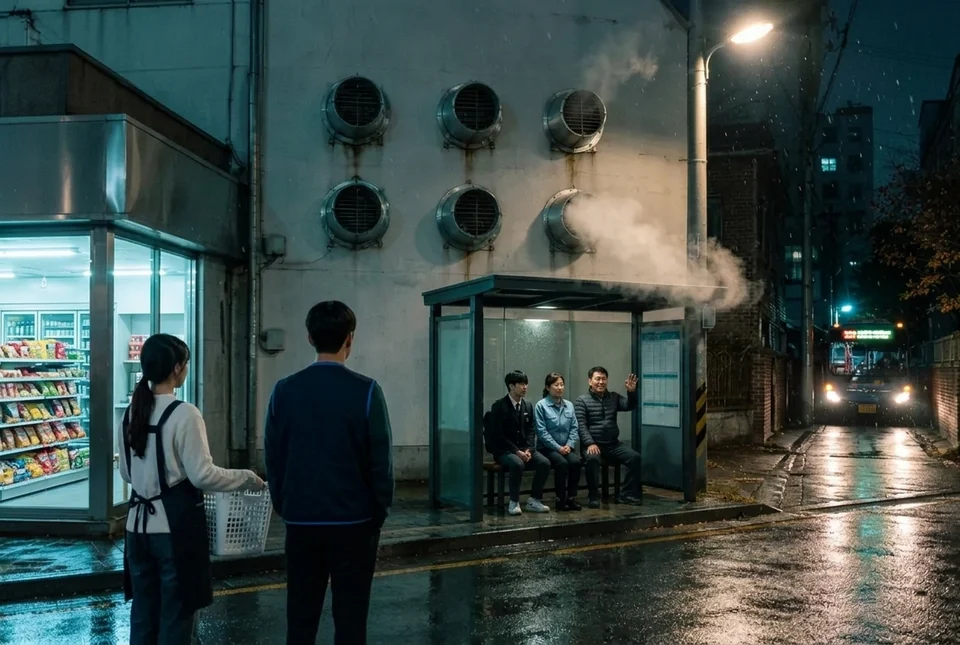
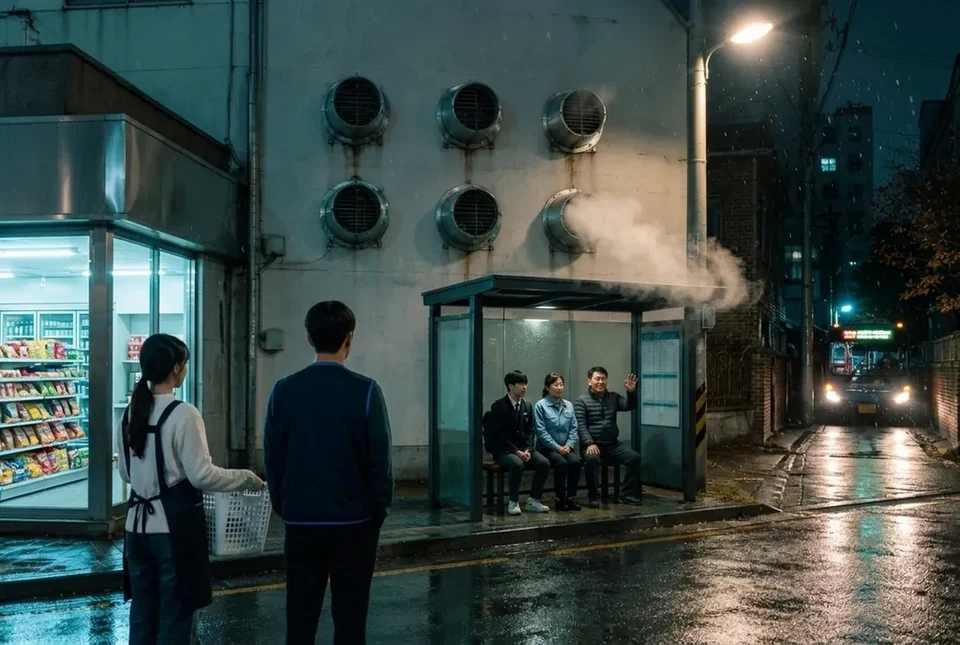
laundry 휴대폰 기록 반영: 가로 휴대폰 판정, 첫 위치 6번, 동전 봉투 세 번째 오답부터 기다림, 그림·글 맞춤
- small()을 엔진과 같게(가로 휴대폰 포함), 편 CSS 640 블록도 가로 포함
- 해달빨래방 focusX(처음 6번·패널, 배기구 뒤엔 단말기), 배기구 뒤 6번 문 유리 꺼진 모습 얹기
- 동전 봉투 세 번째 오답부터 15·25·40초 기다림
- 편의점 도현은 창고 문간, 봉투 자리 이름은 포스 아래 돈통
- 운전 기록 주마다 줄, 영수증 날짜·시각 두 줄, CCTV 지나가는 사람 밝게·휴대폰 화면 안으로, OSD·시각 칸 13px
- 배기구 안내문을 실제 동작(바꿔 붙이기)에 맞춤, 접기 줄 44px
- 날짜 빗금 표기, 엔딩 도현은 편의점 문 앞, 엔딩 그림 윗줄 오른쪽 김 지움(PIL)

Claude-Session: https://claude.ai/code/session_01EmFjZY1gpVcrfc1exiuVhy

diff --git a/mystery-site/web/v2/episodes/laundry.js b/mystery-site/web/v2/episodes/laundry.js
@@ -4,7 +4,25 @@
 // v136: 도현에게 돌려줄 동전 봉투(coinroll) 추가 — 기록에서 도현이 넣은 밤만 센다 (관리자 카드 7줄은 엄마 것, 답 29개)
 // v125: 간판은 가게 안에서 보면 좌우가 뒤집힌다(엄마는 늘 밖에서 봤다) · 근무표 대타 메모 함정 · 뒷골목 CCTV(새 장치) · 엄마의 사연과 월요일 밤 빈칸
 const P = 'assets/v2/laundry/';
-const small = () => typeof matchMedia === 'function' && matchMedia('(max-width:640px)').matches;
+// 휴대폰 판정은 엔진과 같게: 세로 폭 640 이하 또는 가로로 돌린 휴대폰(높이 500 이하)
+const small = () => typeof matchMedia === 'function' && matchMedia('(max-width:640px), (orientation:landscape) and (max-height:500px)').matches;
+const stateNow = () => { try { return window.MihaejeV2?.state || JSON.parse(localStorage.getItem('mihaeje-v2-laundry') || '{}') || {}; } catch { return {}; } };
+
+// 마구 눌러 보기 막기 (404호와 같은 방식): 두 번까지는 그냥, 세 번째 오답부터 기다리는 시간이 늘어난다
+const WAIT = [0, 0, 0, 15, 25, 40];
+const miss = (d) => { d.miss = (d.miss || 0) + 1; const sec = WAIT[Math.min(d.miss, WAIT.length - 1)]; d.until = sec ? Date.now() + sec * 1000 : 0; };
+const waiting = (d) => Math.max(0, Math.ceil(((d.until || 0) - Date.now()) / 1000));
+function waitLine(ctx, text) {
+  if (!waiting(ctx.d)) return null;
+  const p = ctx.el('p', 'ld-wait', `${text} · ${waiting(ctx.d)}초`);
+  const t = setInterval(() => {
+    if (!p.isConnected) { clearInterval(t); return; }
+    const n = waiting(ctx.d);
+    if (n <= 0) { clearInterval(t); ctx.save(); return; }
+    p.textContent = `${text} · ${n}초`;
+  }, 400);
+  return p;
+}
 
 // 6번 패널: 버튼 일곱 + 시작 (사진 좌표 %)
 const BTN = [
@@ -31,9 +49,9 @@ function logRows() {
     if (m === 11 && d > 4) break;
     const pv = new Date(Date.UTC(2026, 8, 24 + i)); const pm = pv.getUTCMonth() + 1, pd = pv.getUTCDate(), pw = pv.getUTCDay();
     const day = `${m}/${d} ${WD[w]}`;
-    if (pm === 9) out.push([day, `23:5${(pd % 4) + 5} 관리자 카드`, '저온 10분 0.0kg']);
-    else if (!doNight(pm, pd, pw)) out.push([day, '—', '<span class="term-miss">실행 없음</span>']);
-    else out.push([day, `22:0${coinMin(pm, pd)} 500원 1개`, m === 11 && d === 4 ? '저온 10분 <b>운전 중</b>' : '저온 10분 0.0kg']);
+    if (pm === 9) out.push([day, `23:5${(pd % 4) + 5} 관리자 카드`, '저온 10분 0.0kg', w]);
+    else if (!doNight(pm, pd, pw)) out.push([day, '—', '<span class="term-miss">실행 없음</span>', w]);
+    else out.push([day, `22:0${coinMin(pm, pd)} 500원 1개`, m === 11 && d === 4 ? '저온 10분 <b>운전 중</b>' : '저온 10분 0.0kg', w]);
   }
   return out;
 }
@@ -93,8 +111,9 @@ function figSvg(list) {
       + `<circle cx="${x + 2}" cy="283" r="11" fill="#8d9b94"/><path d="M${x - 9} 281 Q${x + 2} 266 ${x + 13} 281 Q${x + 2} 275 ${x - 9} 281Z" fill="#0a0f0d"/></g>`;
   };
   const stand = (x) => `<g ${ink} opacity=".86"><circle cx="${x}" cy="236" r="12" fill="#8d9b94"/><path d="M${x - 16} 252 Q${x} 242 ${x + 16} 252 L${x + 17} 332 L${x - 17} 332Z"/><rect x="${x - 15}" y="328" width="12" height="76" rx="4"/><rect x="${x + 3}" y="328" width="12" height="76" rx="4"/></g>`;
+  // 지나가는 사람은 벤치 오른쪽 인도 (휴대폰에서 벤치 쪽을 1.45배로 키워도 화면 안에 들어오게)
   const parts = {
-    walker: `<g ${ink} opacity=".8"><path d="M520 222 Q560 186 600 222Z"/><rect x="558" y="222" width="3" height="30"/><circle cx="560" cy="252" r="12"/><path d="M544 268 Q560 258 576 268 L578 360 L542 360Z"/><rect x="545" y="356" width="13" height="80" rx="4" transform="rotate(6 551 356)"/><rect x="562" y="356" width="13" height="80" rx="4" transform="rotate(-8 568 356)"/></g>`,
+    walker: `<g ${ink} opacity=".9" transform="translate(-84 0)"><path d="M520 222 Q560 186 600 222Z" fill="#3c4a44" stroke="#8d9b94" stroke-width="3"/><rect x="558" y="222" width="3" height="30" fill="#8d9b94"/><circle cx="560" cy="252" r="12" fill="#8d9b94"/><path d="M544 268 Q560 258 576 268 L578 360 L542 360Z"/><rect x="545" y="356" width="13" height="80" rx="4" transform="rotate(6 551 356)"/><rect x="562" y="356" width="13" height="80" rx="4" transform="rotate(-8 568 356)"/></g>`,
     cat: `<g ${ink} opacity=".88"><ellipse cx="300" cy="331" rx="19" ry="9"/><circle cx="320" cy="322" r="8"/><path d="M314 316 L316 306 L321 314Z M321 314 L326 306 L327 317Z"/><path d="M282 332 Q268 330 270 316" fill="none" stroke="#070b0a" stroke-width="4" stroke-linecap="round"/></g><circle cx="318" cy="321" r="1.6" fill="#e8fff0"/><circle cx="324" cy="321" r="1.6" fill="#e8fff0"/>`,
     p1: sit(266, true), p2: sit(236, true), p3: sit(292), p4: sit(346, false, 1),
     s1: stand(395), s2: stand(432),
@@ -162,7 +181,7 @@ export default {
   tracesLabel: '6번이 데려간 곳',
 
   opening: {
-    eyebrow: '11월 4일 수요일 0시',
+    eyebrow: '2026/11/4 수요일 · 0시',
     paragraphs: [
       '해달빨래방은 엄마가 열두 해 한 가게다. 엄마가 손목 수술을 받으면서 지난달부터 내가 맡았다. 무인이라 밤엔 아무도 없다. 원래는.',
       '맡은 첫날 엄마가 한 말은 하나였다. 「6번 자정에 도는 거 건드리지 마라. 이유는 묻지 말고.」',
@@ -186,6 +205,10 @@ export default {
       id: 'hall',
       name: '해달빨래방',
       image: P + 'hall.webp',
+      // 처음엔 6번 건조기·쪽지·패널 쪽부터 (오프닝 마지막이 '빈 통 앞에 서기') · 배기구를 푼 뒤엔 벽 단말기 쪽
+      focusX: (S) => (S.solved?.includes('vents') && !S.solved.includes('cctv') ? 71 : 88),
+      // 배기구를 푼 뒤 6번은 멈췄다 → 문 유리 불을 끈 모습을 얹는다 (그림 속 6번 유리 자리 픽셀에 맞춤)
+      get overlays() { return (stateNow().solved || []).includes('vents') ? [{ x: 86.72, y: 9.45, w: 12.4, h: 29.8, cls: 'drum-off', html: `<img src="${P}props/drum6-off.webp" alt="">` }] : []; },
       arrive: (S) => {
         if (S.solved.includes('cctv')) return '단말기엔 어젯밤 벤치가 멈춰 있다 6번 패널 액정에 예약 화면이 켜져 있다';
         if (S.solved.includes('vents')) return '6번은 멈췄다 문 유리가 아직 따뜻하다 벽에 붙은 관리자 단말기 화면이 저 혼자 깜빡인다 뒷골목을 비추는 카메라다';
@@ -213,14 +236,14 @@ export default {
       arrive: (S) => (S.solved.includes('coinroll')
         ? '도현은 박스를 안고 다시 창고로 들어갔다 계산대는 또 비었다 포스 화면엔 아직 도현 이름이 로그인돼 있다'
         : S.solved.includes('magnet')
-          ? '도현은 계산대에 팔꿈치를 괴고 서 있다 지폐는 오백 원짜리로 바꿔 줬다 딱 자기가 넣은 만큼이 아니면 안 받겠다고 한다'
+          ? '도현은 창고 문간에 기대서 이쪽을 본다 지폐는 포스 아래 돈통에서 오백 원짜리로 바꿔 줬다 딱 자기가 넣은 만큼이 아니면 안 받겠다고 한다'
           : '옆 늘봄편의점은 불이 환하다 계산대는 비어 있고 창고에서 박스 끄는 소리만 난다 냉장고 모터가 낮게 운다 계산대 너머 벽에 근무표 화이트보드, 보드 아래 테두리엔 노란 쪽지'),
       hotspots: [
         { id: 'shift', x: 58, y: 31, label: '근무표 화이트보드', kind: 'device', device: 'magnet' },
         { id: 'posnote', x: 49, y: 53, r: 6, label: '포스 옆 꽂이의 메모', kind: 'doc', doc: 'posnote' },
         { id: 'talk', x: 29, y: 57, r: 8, label: '포스 앞에서 도현과 한 얘기', kind: 'doc', doc: 'talk', visible: (S) => S.solved.includes('magnet') },
-        // 포스 아래 검은 돈통 자리
-        { id: 'envelope', x: 29, y: 74, r: 7, label: '계산대 위 동전 봉투', kind: 'device', device: 'coinroll', visible: (S) => S.solved.includes('magnet') },
+        // 포스 아래 검은 돈통 자리 (그림에 봉투는 없어서 돈통 이름으로)
+        { id: 'envelope', x: 29, y: 74, r: 7, label: '포스 아래 돈통 · 동전 봉투', kind: 'device', device: 'coinroll', visible: (S) => S.solved.includes('magnet') },
       ],
     },
     {
@@ -270,13 +293,13 @@ export default {
     },
     log6: {
       title: '6번 운전 기록',
-      kind: '관리자 모드 · 9월 25일 ~ 11월 4일',
-      html: `<div class="term-screen"><p class="term-line">DRYER 06 · RUN LOG</p><table class="term-table log6"><tr><th>00:00 운전한 날</th><th>전날 밤 투입</th><th>운전</th></tr>${logRows().map((r) => `<tr><td>${r[0]}</td><td>${r[1]}</td><td>${r[2]}</td></tr>`).join('')}</table></div>`,
+      kind: '관리자 모드 · 9/25 ~ 11/4',
+      html: `<div class="term-screen"><p class="term-line">DRYER 06 · RUN LOG</p><table class="term-table log6"><tr><th>00:00 운전한 날</th><th>전날 밤 투입</th><th>운전</th></tr>${logRows().map((r) => `<tr${r[3] === 1 ? ' class="wk"' : ''}><td>${r[0]}</td><td>${r[1]}</td><td>${r[2]}</td></tr>`).join('')}</table></div>`,
     },
     coins: {
       title: '6번 동전함',
       kind: '관리자 모드로 열림',
-      html: `<figure class="prop"><img src="${P}props/coins.webp" alt="500원 동전 사이에 가늘게 접힌 영수증 넉 장" decoding="async"></figure><p>이쪽 줄 건조기 셋이 같이 쓰는 동전함이라 낮 손님 동전까지 한 달 치가 수북하다 그 위에 가늘게 접힌 영수증 넉 장 서랍 윗단 틈으로 밀어 넣은 것 같다 펴 보니 뒷면마다 볼펜으로 「6번 500」</p><div class="receipt-row">${RECEIPTS.map(([d, t]) => `<div class="receipt"><b>늘봄편의점 윤슬점</b><span>2026/${d} ${t}</span><span>POS 2</span><span>캔커피 1,500</span><span>받은 돈 2,000</span><span>거스름 500</span></div>`).join('')}</div>`,
+      html: `<figure class="prop"><img src="${P}props/coins.webp" alt="500원 동전 사이에 가늘게 접힌 영수증 넉 장" decoding="async"></figure><p>이쪽 줄 건조기 셋이 같이 쓰는 동전함이라 낮 손님 동전까지 한 달 치가 수북하다 그 위에 가늘게 접힌 영수증 넉 장 서랍 윗단 틈으로 밀어 넣은 것 같다 펴 보니 뒷면마다 볼펜으로 「6번 500」</p><div class="receipt-row">${RECEIPTS.map(([d, t]) => `<div class="receipt"><b>늘봄편의점 윤슬점</b><span class="nw">2026/${d}</span><span>${t}</span><span>POS 2</span><span>캔커피 1,500</span><span>받은 돈 2,000</span><span>거스름 500</span></div>`).join('')}</div>`,
     },
     posnote: {
       title: '포스 옆 꽂이의 메모',
@@ -296,11 +319,11 @@ export default {
     bus: {
       title: '정류장 시간표',
       kind: '윤슬동 뒷길 · 순환 12번',
-      html: `<div class="paper-table"><p class="pt-head">순환 12번 막차</p><table><tr><th>11월 1일 일요일까지</th><td><s>00:10</s></td></tr><tr><th>11월 2일 월요일부터</th><td><b class="big">00:30</b> 노선 개편</td></tr></table></div><p>개편 안내 종이가 아직 빳빳하다 유리 벽은 있어도 난방은 없다 벤치 위 벽에서 배기구들이 정류장 지붕을 내려다본다</p>`,
+      html: `<div class="paper-table"><p class="pt-head">순환 12번 막차</p><table><tr><th>11/1 일요일까지</th><td><s>00:10</s></td></tr><tr><th>11/2 월요일부터</th><td><b class="big">00:30</b> 노선 개편</td></tr></table></div><p>개편 안내 종이가 아직 빳빳하다 유리 벽은 있어도 난방은 없다 벤치 위 벽에서 배기구들이 정류장 지붕을 내려다본다</p>`,
     },
     final: {
       title: '엄마와의 통화',
-      kind: '11월 5일 목요일 0시 31분',
+      kind: '2026/11/5 목요일 0시 31분',
       locked: true,
       html: `<blockquote>"봤냐"</blockquote><blockquote>"봤어 막차 바뀐 거 알았어?"</blockquote><blockquote>"몰랐지 병원 다니느라 정신없었는데 그럼 며칠을 애들이 떨었겠네"</blockquote><blockquote>"엄마 근데 6번 왜 시작한 거야"</blockquote><blockquote>"몇 년 전 겨울에 저 벤치에서 교복 입은 애 하나가 막차 기다리다 떨면서 잠들었어 버스 기사가 흔들어 깨워서 겨우 탔대 그 얘기 듣고 그다음 날부터 돌렸지"</blockquote><blockquote>"니 아빠도 공장 다닐 때 그 막차 탔거든 말하면 니가 전기세 얘기부터 할까 봐 안 했다"</blockquote><blockquote>"월요일 밤은 왜 비었어?"</blockquote><blockquote>"월요일은 하은이가 야간인데 걔는 학생이라 거기까진 부탁을 못 했어 화요일마다 마음에 걸렸다"</blockquote><blockquote>"이제 열두 시 십 분부터 이십 분 저온 관리자로 걸어 놨어 예약은 하루짜리니까 밤마다 내가 걸게 월요일 밤도 빼지 않고"</blockquote><blockquote>"그리고 열두 시 넘으면 뒤쪽에 사람 있다는 거, 정류장 얘기였어?"</blockquote><blockquote>"그럼 뭔 줄 알았냐"</blockquote><blockquote>"도현이한테 오백 원 돌려줘라 한 달 치"</blockquote><blockquote>"벌써 줬어 딱 넣은 만큼만 받겠대서 기록 보고 하나씩 셌어"</blockquote><blockquote>"걔도 참"</blockquote><p>엄마가 웃었다 손목이 아프다면서 한참 웃었다</p>`,
     },
@@ -426,7 +449,7 @@ export default {
     coinroll: {
       title: '도현에게 건넬 동전 봉투',
       scene: 'store',
-      intro: '계산대에서 지폐를 오백 원짜리로 바꿔 받았다 동전 더미를 누르면 봉투에 한 개씩 들어가고, 열 개가 모이면 종이로 한 줄 말린다 다 넣었으면 봉투를 붙여 건넨다',
+      intro: '포스 아래 돈통에서 지폐를 오백 원짜리로 바꿔 받았다 동전 더미를 누르면 봉투에 한 개씩 들어가고, 열 개가 모이면 종이로 한 줄 말린다 다 넣었으면 봉투를 붙여 건넨다',
       docs: ['log6', 'talk', 'coins'],
       hintCode: 'W-S06',
       hints: [
@@ -451,13 +474,16 @@ export default {
         const row = el('div', 'coin-keys');
         [['열 개 한 줄 넣기', 10], ['한 개 꺼내기', -1], ['한 줄 꺼내기', -10]].forEach(([t, k]) => { const b = el('button', 'chip', t); b.type = 'button'; b.onclick = () => add(k); row.append(b); });
         const empty = el('button', 'chip', '봉투 비우기'); empty.type = 'button'; empty.onclick = () => { d.n = 0; save(); }; row.append(empty);
+        const w = waitLine(ctx, '도현이 봉투를 다시 처음부터 세는 중 기다린다');
         wrap.append(env, el('p', 'pick-label coin-count', d.n ? `봉투에 ${rolls ? `${rolls}줄 ` : ''}${loose ? `${loose}개` : ''} · ${(d.n * 500).toLocaleString('ko-KR')}원` : '아직 봉투가 비었다'), pile, row);
+        if (w) wrap.append(w);
         return wrap;
       },
       commitLabel: '봉투 붙여 건네기',
-      canCommit: (d) => d.n > 0,
+      canCommit: (d) => d.n > 0 && !waiting(d),
       check(d) {
         if (d.n === 29) return { ok: true };
+        miss(d);
         return { ok: false, msg: '도현이 봉투를 열어 한 줄씩 세어 보더니 도로 내민다 「이건 제가 넣은 만큼이 아니에요」' };
       },
       reveal: {
@@ -471,7 +497,7 @@ export default {
     vents: {
       title: '뒷벽 배기구 여섯',
       scene: 'alley',
-      intro: '배기구 여섯에 번호가 없다 가게에서 들고 나온 번호 스티커 1부터 6까지 아래에서 하나 집어 배기구를 누르면 붙는다 붙인 걸 누르면 떼어 낸다',
+      intro: '배기구 여섯에 번호가 없다 가게에서 들고 나온 번호 스티커 1부터 6까지 아래에서 하나 집어 배기구를 누르면 붙는다 붙인 걸 빈손으로 누르면 떼어 손에 들고, 스티커를 든 채 누르면 바꿔 붙인다',
       docs: ['duct', 'bus', 'talk'],
       hintCode: 'W-S03',
       hints: [
@@ -511,7 +537,7 @@ export default {
           t.onclick = () => { d.hold = d.hold === n ? null : n; save(); };
           tray.append(t);
         });
-        box.append(wall, tray, el('p', 'pick-label', d.hold ? `${d.hold}번 스티커를 들었다 붙일 배기구를 누른다` : used.length === 6 ? '여섯 장을 다 붙였다 붙인 스티커를 누르면 떼어 낸다' : '스티커를 하나 집어 배기구에 붙인다'));
+        box.append(wall, tray, el('p', 'pick-label', d.hold ? `${d.hold}번 스티커를 들었다 붙일 배기구를 누른다` : used.length === 6 ? '여섯 장을 다 붙였다 붙인 스티커를 누르면 떼어 손에 든다' : '스티커를 하나 집어 배기구에 붙인다'));
         return box;
       },
       commitLabel: '도면이랑 맞춰 보기',
@@ -623,7 +649,7 @@ export default {
       reveal: {
         title: '00:10, 20분, 저온',
         text: '액정에 「예약 00:10 · 20분 · 저온」 동전 칸은 「관리자」 예약은 하루짜리라 내일부터는 내가 밤마다 건다 월요일 밤도 빼지 않고',
-        scene: ['편의점에 들러 도현한테 말했다 「이제 오백 원 안 넣으셔도 돼요 밤마다 제가 걸게요」 도현이 고개를 끄덕였다 「그럼 내일 열두 시 십 분에 같이 봐요」'],
+        scene: ['편의점에 들러 도현한테 말했다 「이제 오백 원 안 넣으셔도 돼요 밤마다 제가 걸게요」 도현이 고개를 끄덕였다 「그럼 내일 열두 시 십 분에 가게 앞에서 같이 봐요」'],
         ending: true,
         endingLabel: '다음 날 밤 열두 시 십 분, 뒷골목',
       },
@@ -633,12 +659,12 @@ export default {
   ending: {
     image: P + 'ending.webp',
     imageAlt: '자정의 버스 정류장, 지붕 위 배기구 아래 붙어 앉은 세 사람과 모퉁이에서 지켜보는 두 사람, 멀리 막차가 온다',
-    eyebrow: '11월 5일 목요일, 막차 오기 전',
+    eyebrow: '2026/11/5 목요일 · 막차 오기 전',
     title: '빈 통으로 도는 이유',
     paragraphs: [
       '하루 종일 오던 비가 밤이 되자 진눈깨비로 바뀌었다 열두 시 십 분, 편의점 문이 열리고 교복 입은 애가 가방을 메고 정류장으로 갔다 뒤로 작업복 차림의 아주머니 한 분, 점퍼 입은 아저씨 한 분',
       '정류장 지붕 위 배기구에서 더운 바람이 내려왔다 빨래 하나 없는 빈 통 바람인데, 진눈깨비 속이라 하얗게 피어올랐다 셋이 벤치에 붙어 앉았다 아저씨가 손을 위로 뻗어 보더니 웃었다 "여기 따뜻하네"',
-      '"원래 열두 시였대요" 도현이 말했다 "막차 바뀌고 나선 애들 나오기 전에 끝나 버린 거죠 저도 그게 이거였는지는 오늘 알았어요"',
+      '"원래 열두 시였대요" 편의점 문 앞에 나와 선 도현이 말했다 "막차 바뀌고 나선 애들 나오기 전에 끝나 버린 거죠 저도 그게 이거였는지는 오늘 알았어요"',
       '"엄마도 아직 모를 거야 막차 바뀐 거"',
       '열두 시 반, 막차가 왔다 배기구 바람이 딱 그때 멎었다 아저씨가 버스에 오르면서 빨래방 뒷벽을 한 번 올려다봤다',
     ],

diff --git a/mystery-site/web/v2/engine.css b/mystery-site/web/v2/engine.css
@@ -2205,14 +2205,14 @@ html[data-case="laundry"] .mag-big.green i{background:radial-gradient(circle at 
 html[data-case="laundry"] .mag-big.yellow i{background:radial-gradient(circle at 35% 30%,#fff07a,#d7b10e)}
 html[data-case="laundry"] .mag-big.on{border-color:var(--lamp);box-shadow:0 0 0 2px var(--lamp) inset}
 html[data-case="laundry"] .duct-peek{margin:0 0 10px;background:var(--chip);border:1px solid var(--line);border-radius:6px;padding:6px 8px}
-html[data-case="laundry"] .duct-peek summary{cursor:pointer;font-size:14px;font-weight:700;min-height:32px;display:flex;align-items:center}
+html[data-case="laundry"] .duct-peek summary{cursor:pointer;font-size:14px;font-weight:700;min-height:44px;display:flex;align-items:center}
 html[data-case="laundry"] .duct-peek .ductfig{margin:6px 0 0}
 html[data-case="laundry"] .cctv-wrap{max-width:640px;margin:0 auto}
 html[data-case="laundry"] .prop.cctv{aspect-ratio:4/3;background:#020403;border:7px solid #15191c;border-radius:8px;box-shadow:0 0 0 1px #3a4148,0 10px 24px rgba(0,0,0,.4);margin:0 0 8px}
 html[data-case="laundry"] .prop.cctv img,html[data-case="laundry"] .cctv-fig{position:absolute;inset:0;width:100%;height:100%;display:block}
 html[data-case="laundry"] .prop.cctv::after{content:"";position:absolute;inset:0;pointer-events:none;background:repeating-linear-gradient(180deg,rgba(0,0,0,0) 0 2px,rgba(0,0,0,.12) 2px 3px);animation:cctv-roll 7s steps(1) infinite}
 @keyframes cctv-roll{0%,96%,100%{opacity:1}97%{opacity:.4}}
-html[data-case="laundry"] .osd{position:absolute;z-index:2;font-family:ui-monospace,SFMono-Regular,Menlo,monospace;font-size:3.3cqw;font-weight:700;color:#eafff3;text-shadow:0 0 2px #000,0 0 5px #000;letter-spacing:.04em;white-space:nowrap}
+html[data-case="laundry"] .osd{position:absolute;z-index:2;font-family:ui-monospace,SFMono-Regular,Menlo,monospace;font-size:max(13px,3.3cqw);font-weight:700;color:#eafff3;text-shadow:0 0 2px #000,0 0 5px #000;letter-spacing:.04em;white-space:nowrap}
 html[data-case="laundry"] .osd.tl{left:3%;top:3%}
 html[data-case="laundry"] .osd.tr{right:3%;top:3%;color:#ff7a6b}
 html[data-case="laundry"] .osd.bl{left:3%;bottom:3%}
@@ -2238,7 +2238,7 @@ html[data-case="laundry"] .sg-row{font-size:2.3cqw}
 /* v136 세탁소 최종 점검: 13px 이하 글자 올림 · 패널 버튼 누름 자리 40px 넘게 · 동전 봉투 */
 html[data-case="laundry"] .receipt{font-size:13px}
 html[data-case="laundry"] .receipt b{font-size:13px}
-@media (max-width:640px){html[data-case="laundry"] .term-table.log6{font-size:13px}html[data-case="laundry"] .term-table.log6 td,html[data-case="laundry"] .term-table.log6 th{padding:4px 2px}}
+@media (max-width:640px),(orientation:landscape) and (max-height:500px){html[data-case="laundry"] .term-table.log6{font-size:13px}html[data-case="laundry"] .term-table.log6 td,html[data-case="laundry"] .term-table.log6 th{padding:4px 2px}}
 html[data-case="laundry"] .dpanel button.pbtn::after{content:"";position:absolute;inset:-5px;border-radius:50%}
 html[data-case="laundry"] .dpanel.small .pbtn{cursor:default;font-size:3.2cqw}
 html[data-case="laundry"] .coin-wrap{max-width:520px;margin:0 auto;display:grid;gap:10px;justify-items:center}
@@ -2262,11 +2262,17 @@ html[data-case="laundry"] .receipt{font-size:13px}
 html[data-case="laundry"] .receipt b{font-size:13px}
 html[data-case="laundry"] .v2-paper p,html[data-case="laundry"] .v2-device-intro{text-wrap:pretty;word-break:keep-all}
 html[data-case="laundry"] .v2-intro-card .v2-blurb{text-wrap:pretty;word-break:keep-all} /* 휴대폰 표지 소개 줄 끝에 한 글자만 남지 않게 */
-@media (max-width:640px){
+/* 휴대폰 기록 반영: 운전 기록은 주마다(월요일) 줄을 그어 세기 쉽게 · 영수증 날짜는 한 줄 · 동전 봉투 기다림 · 배기구 뒤 6번 꺼진 유리 */
+html[data-case="laundry"] .term-table.log6 tr.wk td{border-top:2px solid rgba(155,232,165,.55)}
+html[data-case="laundry"] .term-table.log6 td:first-child{white-space:nowrap}
+html[data-case="laundry"] .receipt .nw{white-space:nowrap}
+html[data-case="laundry"] .ld-wait{margin:2px auto 0;max-width:520px;text-align:center;font-size:14px;color:var(--soft);background:rgba(240,194,90,.12);border:1px dashed rgba(240,194,90,.45);border-radius:4px;padding:8px 10px;font-variant-numeric:tabular-nums}
+html[data-case="laundry"] .v2-stage-ov.drum-off img{display:block;width:100%;height:100%}
+@media (max-width:640px),(orientation:landscape) and (max-height:500px){
   /* 휴대폰: 벤치 쪽을 크게 (앉았는지 서 있는지 보이게) */
   html[data-case="laundry"] .prop.cctv img,html[data-case="laundry"] .cctv-fig{transform:scale(1.45);transform-origin:46% 72%}
   html[data-case="laundry"] .pkeys{display:grid;grid-template-columns:repeat(4,minmax(0,1fr));gap:8px;margin:4px 0 12px}
-  html[data-case="laundry"] .cctv-cell b{font-size:12px}
+  html[data-case="laundry"] .cctv-cell b{font-size:13px;letter-spacing:-.02em}
   html[data-case="laundry"] .cctv-strip{gap:4px}
   html[data-case="laundry"] .swap-note{font-size:17px;margin:-14px 0 8px auto}
   html[data-case="laundry"] .sched-row{grid-template-columns:64px minmax(0,1fr);padding:6px 8px;gap:6px}
